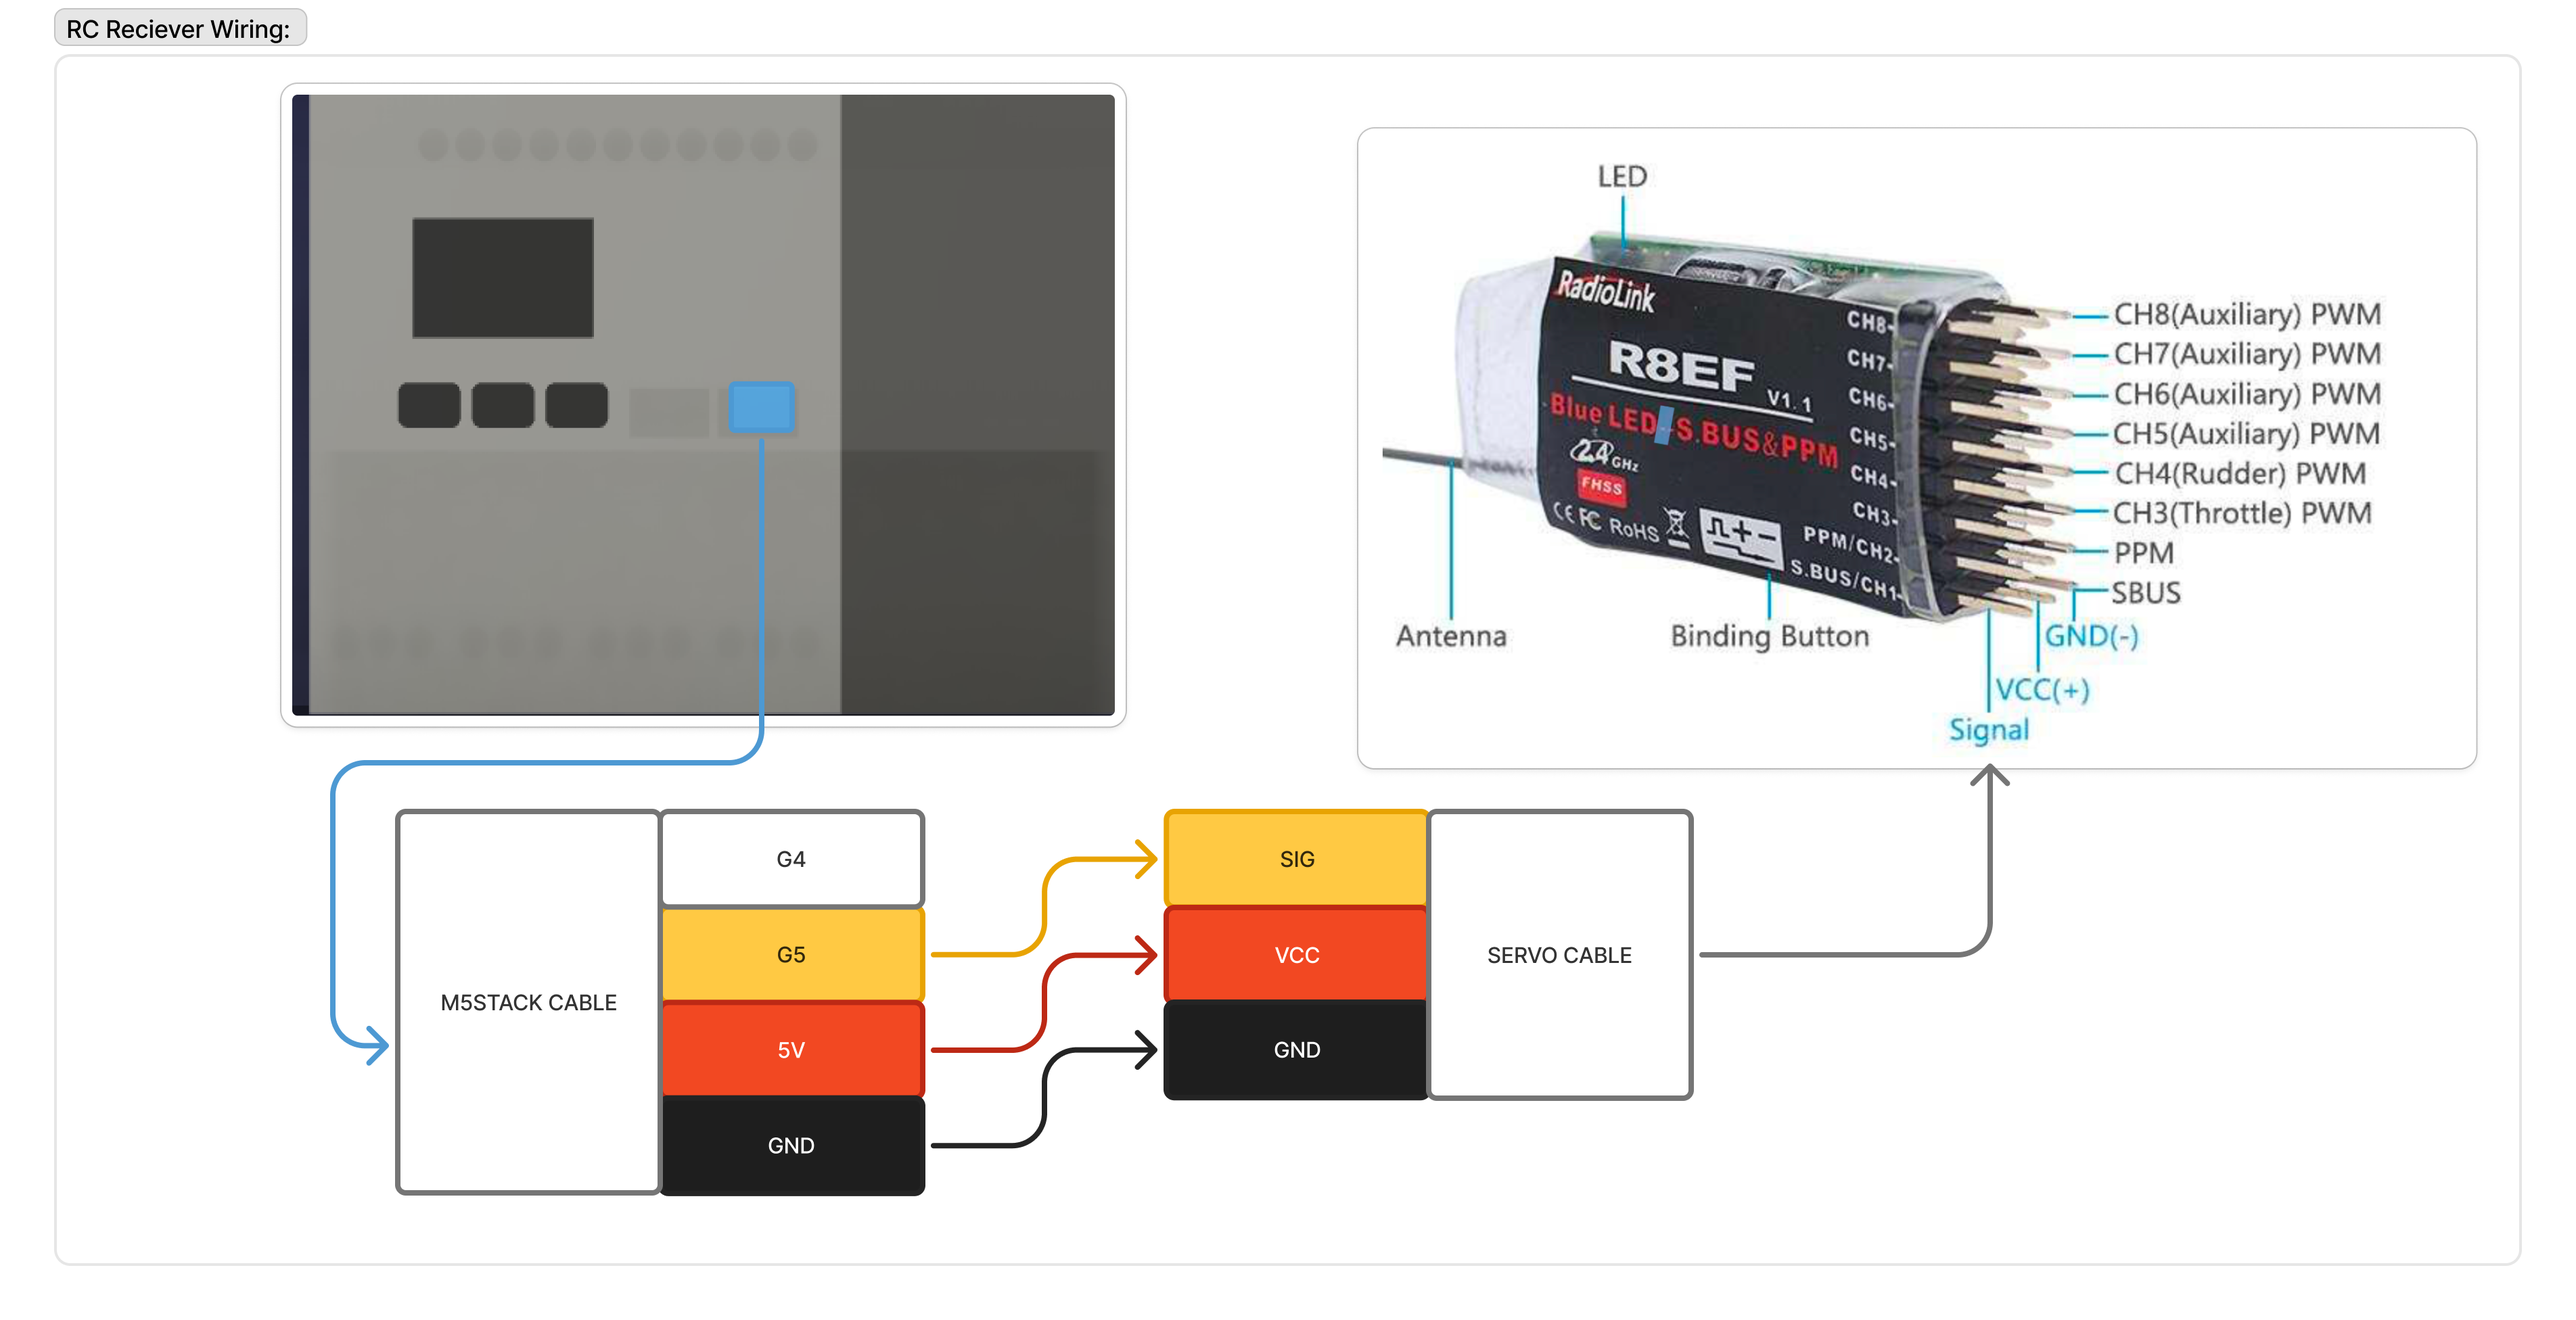
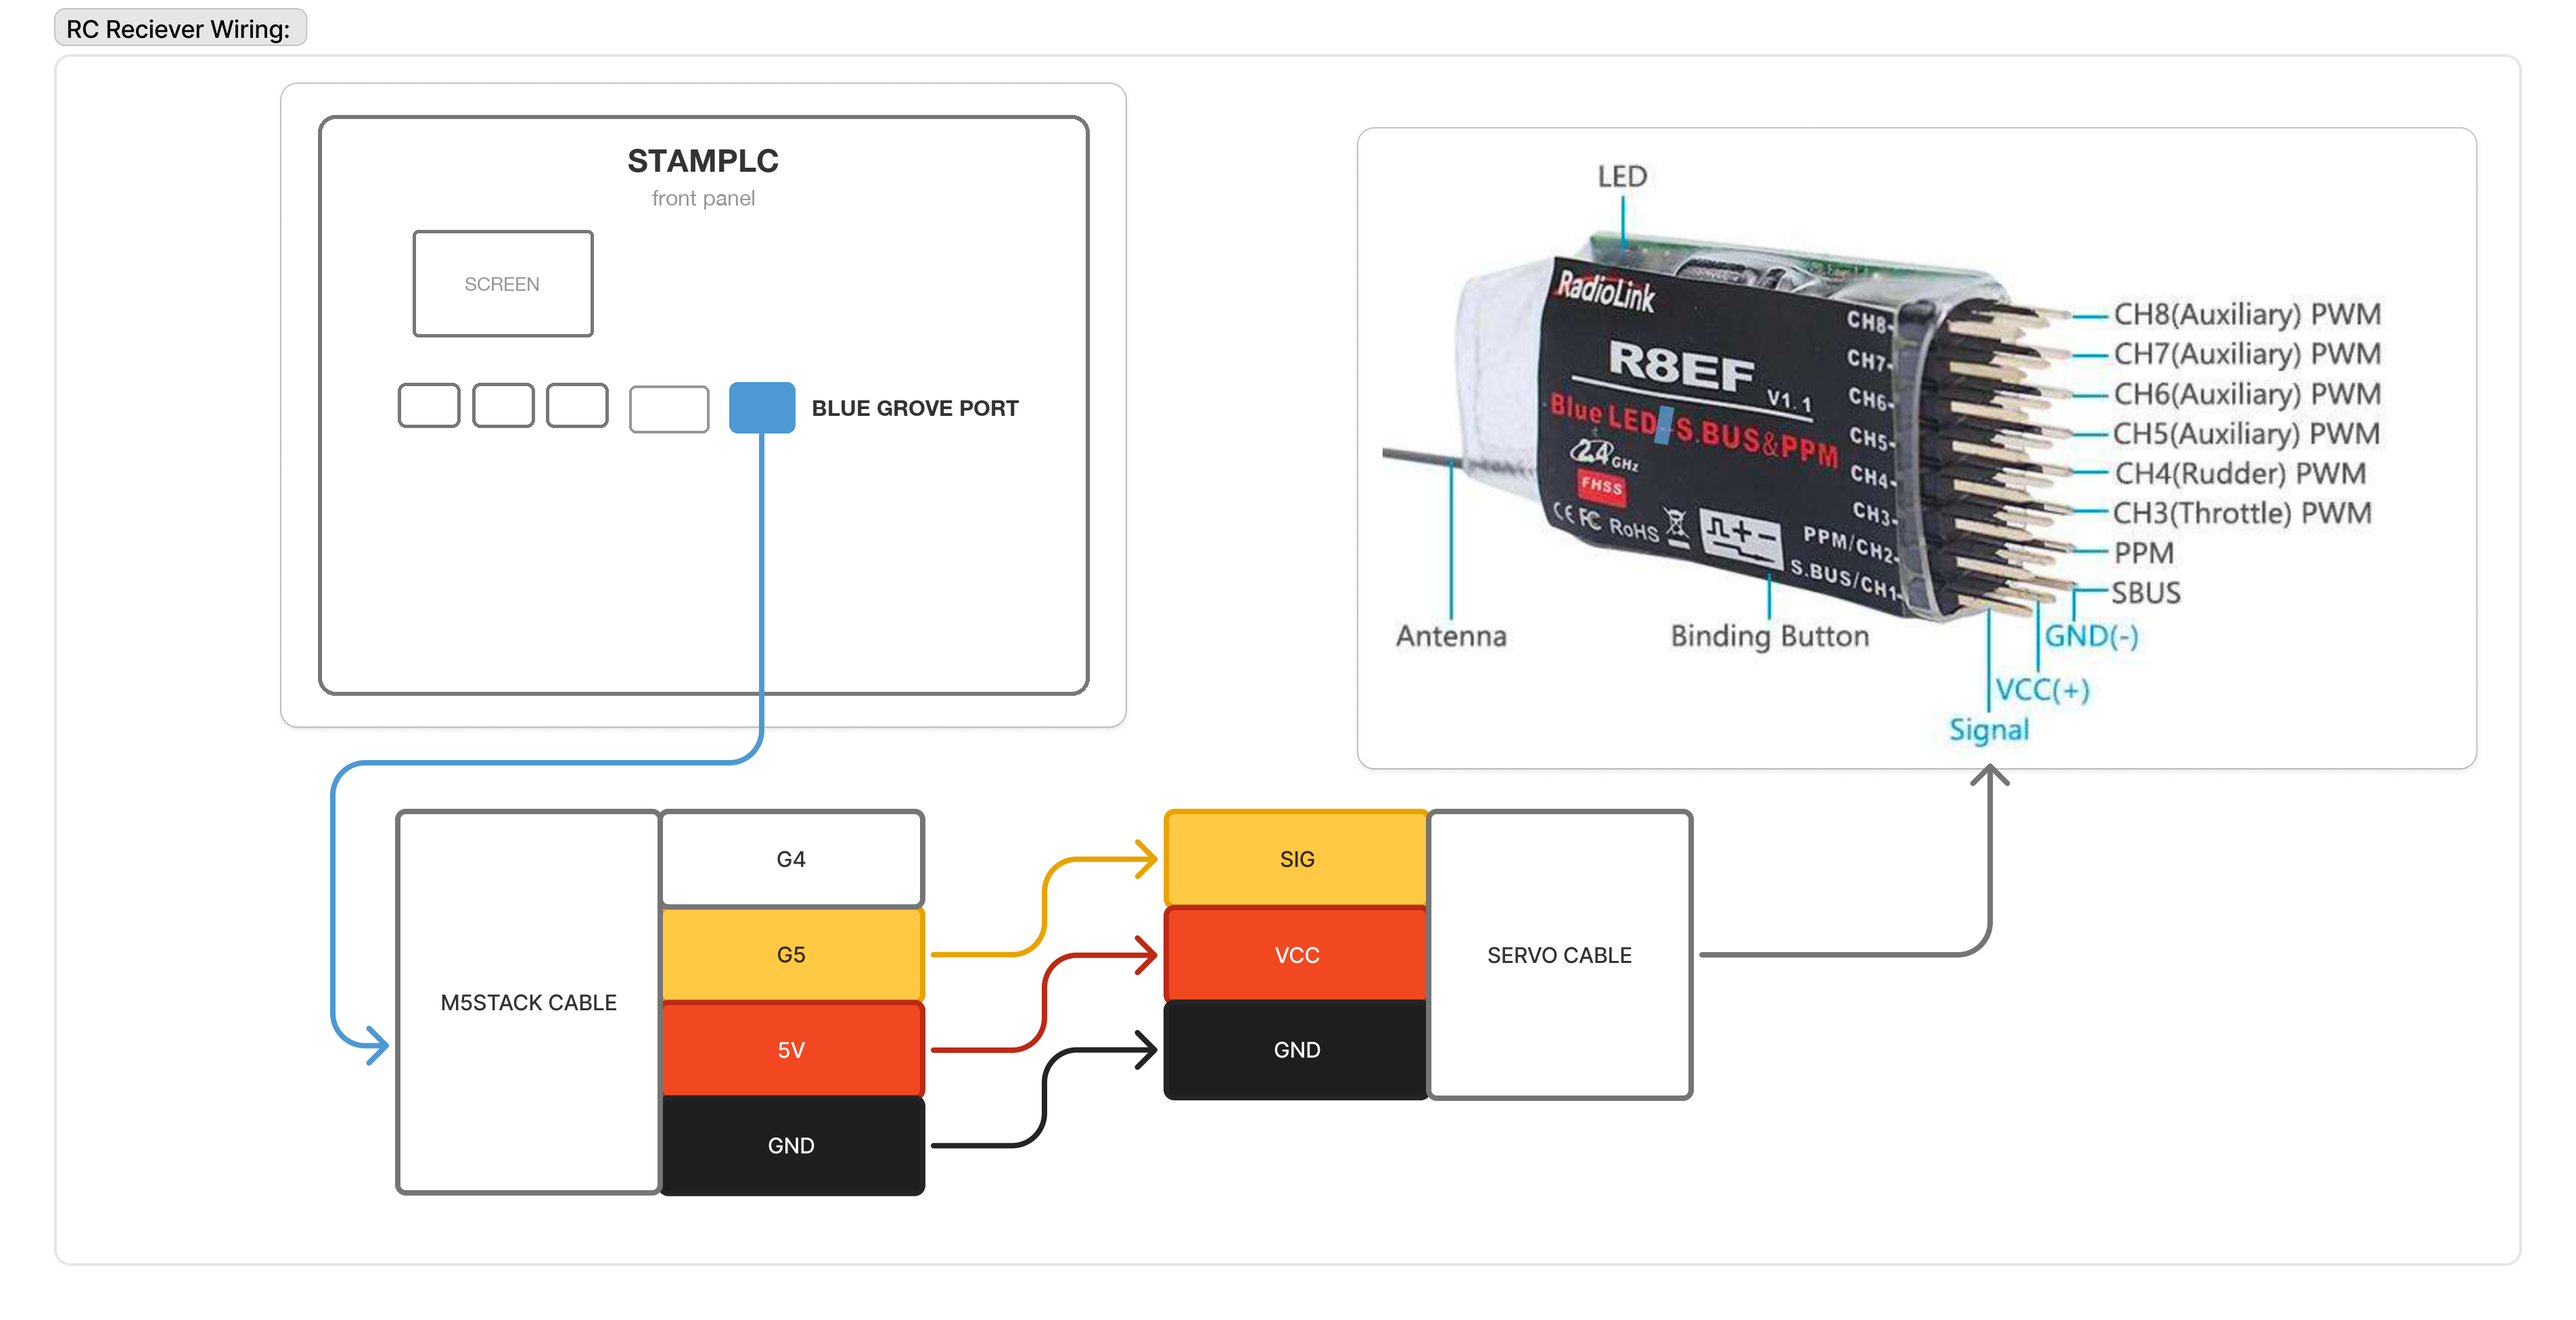
docs: draw the StamPLC panel and the OTOS board as outlines
The receiver wiring diagram showed a photo of the StamPLC's front panel, and the
OTOS harness diagram a SparkFun product photo licensed CC BY-NC-SA, which a
CC BY site cannot carry. Both are now labelled outline drawings in the
diagrams' own style; the blue Grove port and its connector line are where they
were. The SparkFun credit goes with its photo; the RadioLink and Adafruit
credits stay.

Changed region(s): [[0.0938, 0.0625, 0.4375, 0.5625]]

diff --git a/docs/build/otos.md b/docs/build/otos.md
@@ -82,7 +82,7 @@ The wiring harness — the 5 V M5 Grove cable from the PaHub, joined through WAG
   ![OTOS wiring harness — M5 Grove cable from the PaHub, four WAGOs, the Adafruit level converter, then the OTOS](../assets/diagrams/otos-wiring-harness.png)
   <figcaption>The PaHub Grove cable (SCL / SDA / 5 V / GND) joins through four WAGOs to the Adafruit
   logic level converter; its 3.3 V side runs over Qwiic to the OTOS. The level converter is what
-  keeps the 5 V bus off the 3.3 V sensor.<br><small>Product photos: SparkFun Optical Tracking Odometry Sensor, © SparkFun Electronics, licensed CC BY-NC-SA 3.0; Adafruit QT 5V to 3V Level Shifter, © Adafruit Industries, all rights reserved. They are not covered by this site's CC BY 4.0 licence.</small></figcaption>
+  keeps the 5 V bus off the 3.3 V sensor.<br><small>Product photo: Adafruit QT 5V to 3V Level Shifter, © Adafruit Industries, all rights reserved, used to identify the part. It is not covered by this site's CC BY 4.0 licence.</small></figcaption>
 </figure>
 
 The build splits cleanly in two, and the photos follow that split: **Construction** is all
